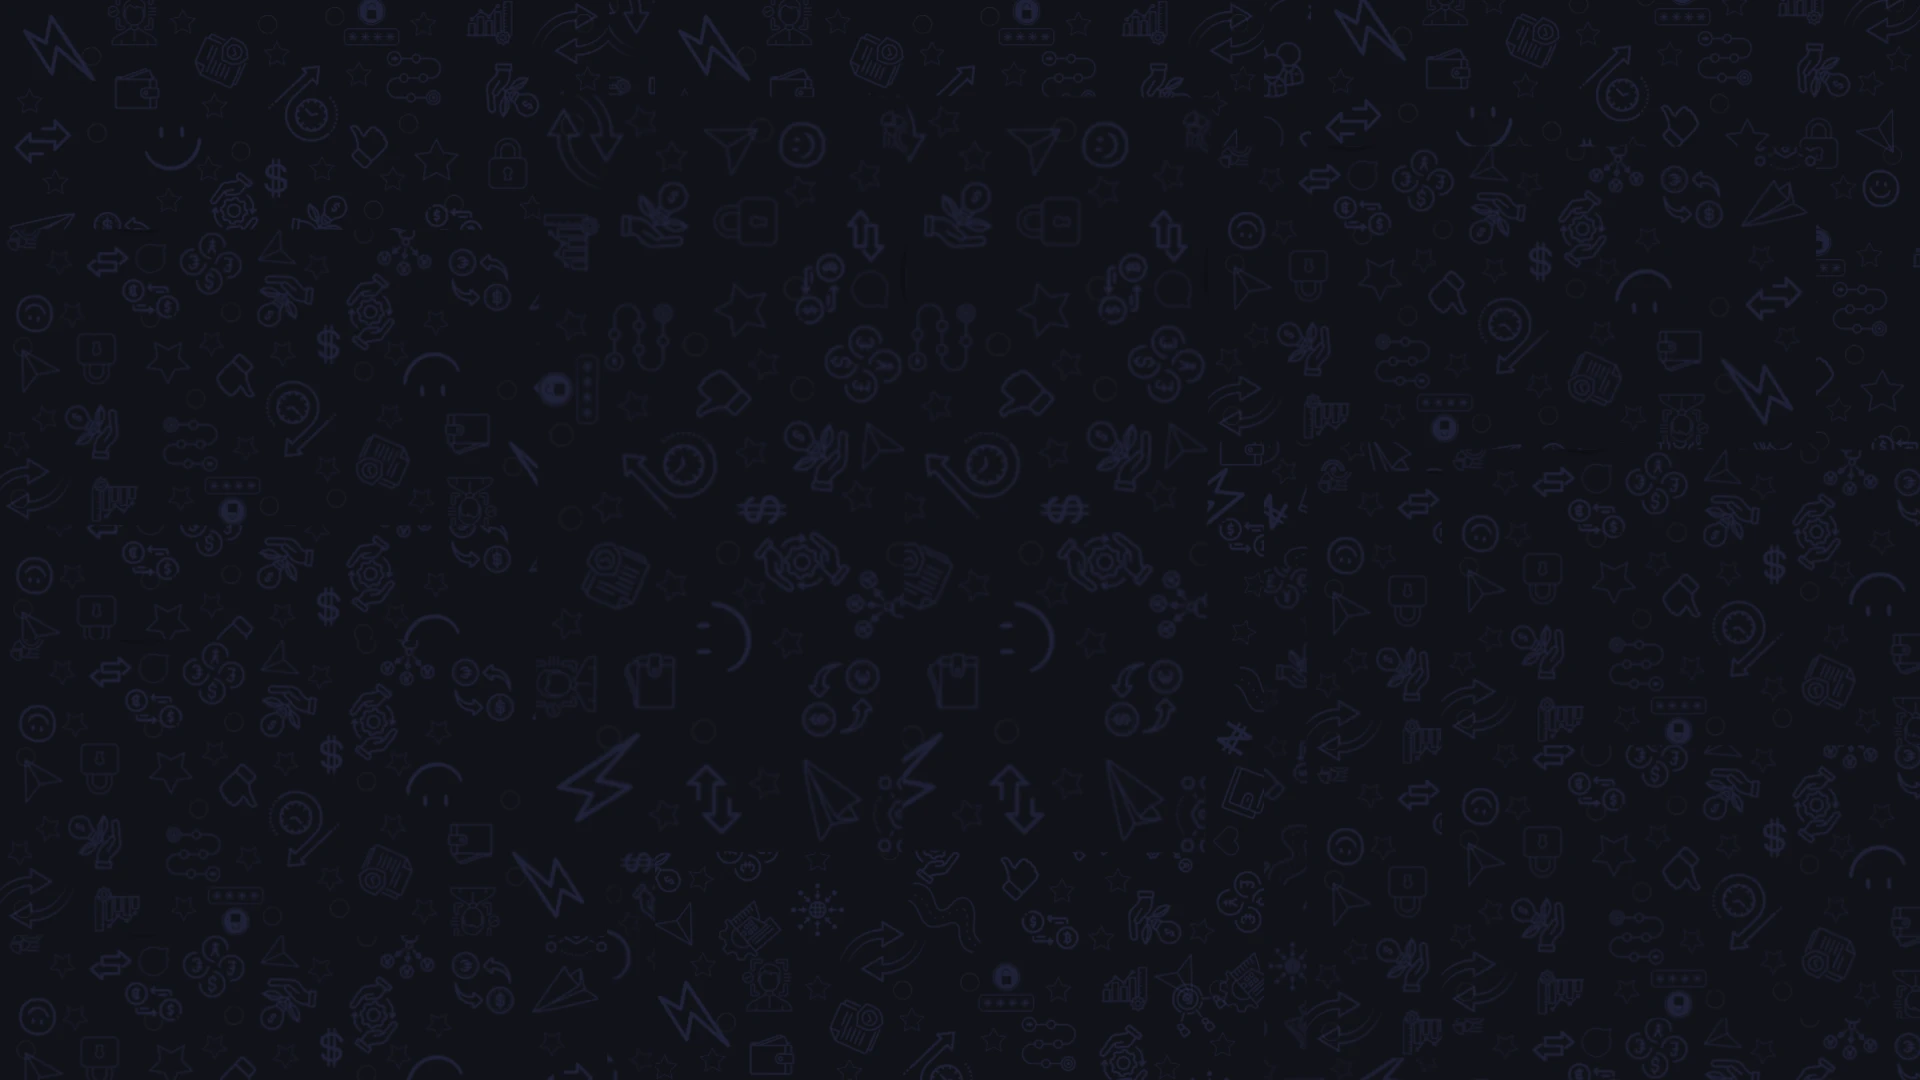
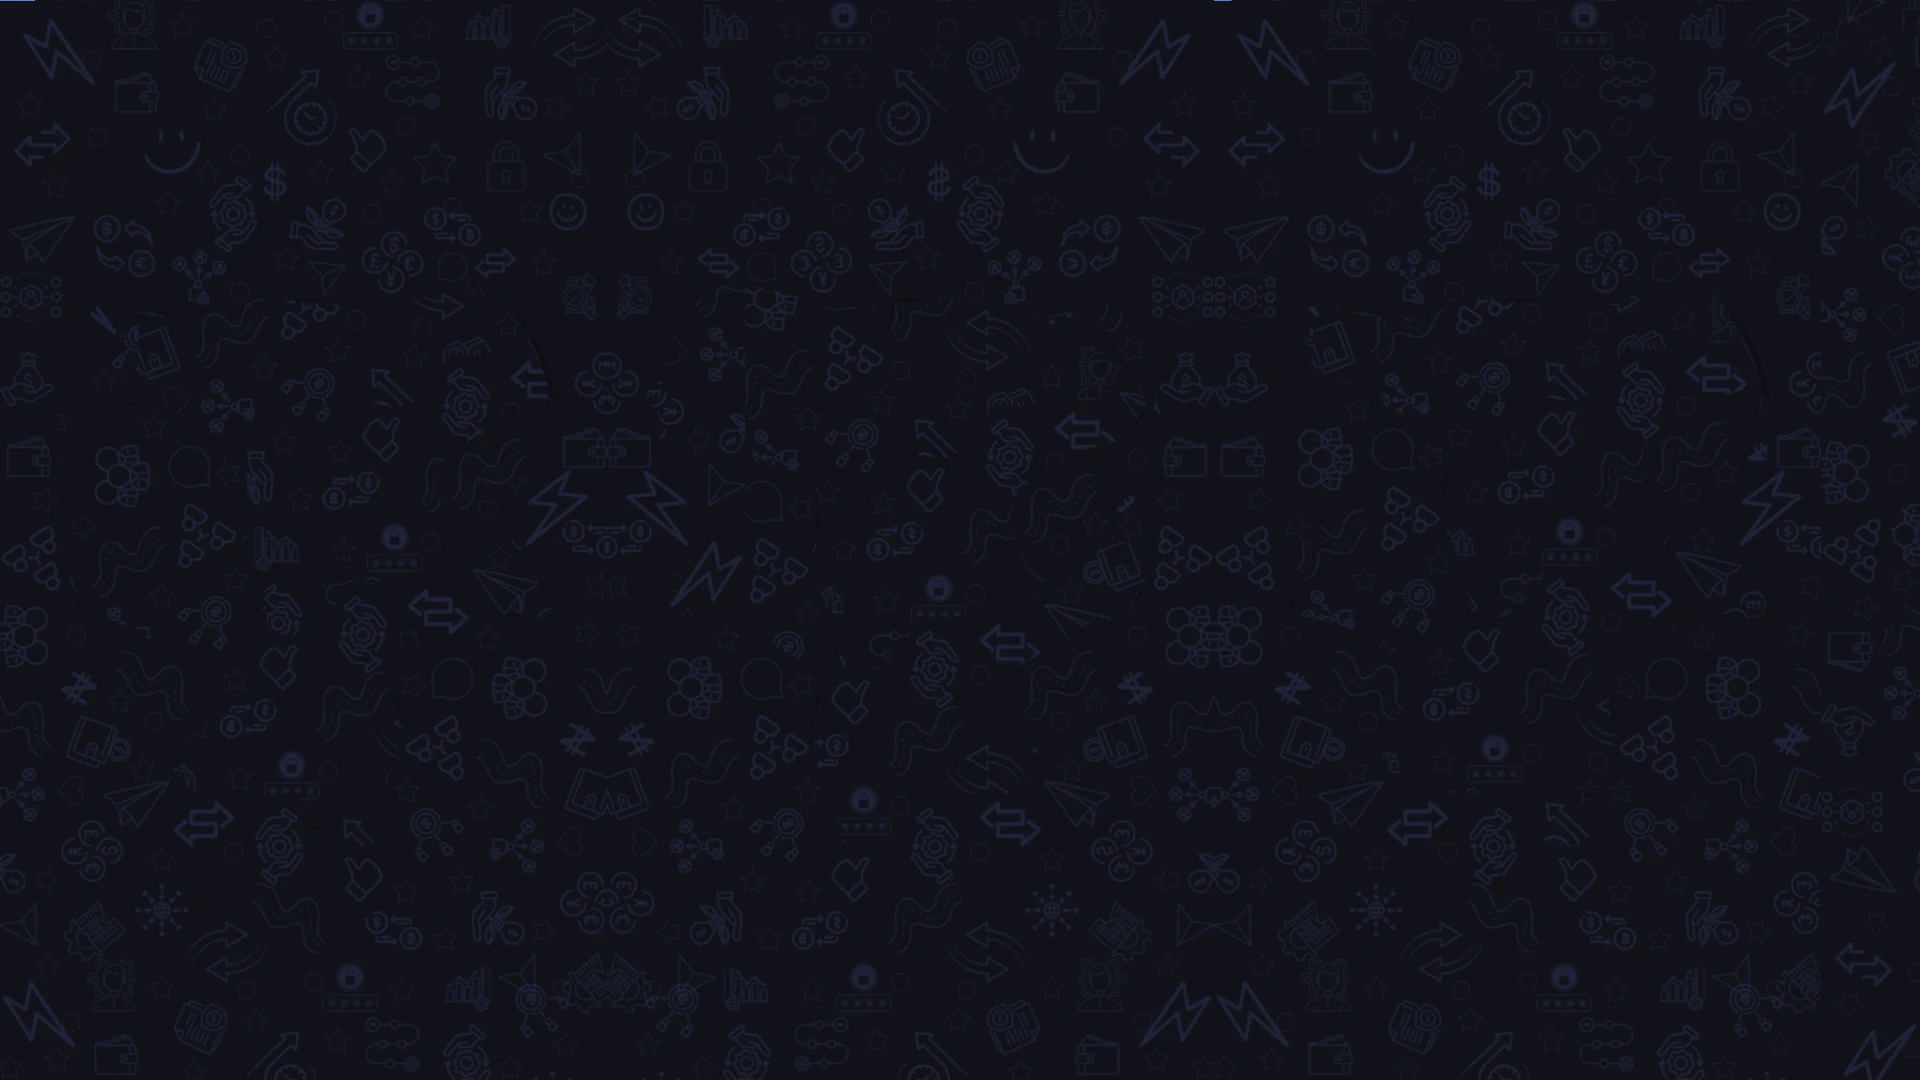
Something just got updated!

diff --git a/components/views/ramp-interface copy.tsx b/components/views/ramp-interface copy.tsx
@@ -346,7 +346,7 @@ export function RampInterface({
           {/* Mode Switcher */}
           <div className="relative w-full">
             <div className="flex justify-start">
-              <div className="flex bg-muted/50 border border-border rounded-xl overflow-hidden backdrop-blur-sm relative w-[200px]">
+              <div className="flex bg-muted/50 border border-primary/20 rounded-xl overflow-hidden backdrop-blur-sm relative w-[200px]">
                 {/* Animated highlight background */}
                 <div
                   className={`absolute top-0 left-0 h-full w-1/2 rounded-xl bg-gradient-to-r from-primary/15 to-primary/10 transition-transform duration-300 ease-in-out ${rampMode === "offramp" ? "translate-x-full" : "translate-x-0"
@@ -389,11 +389,11 @@ export function RampInterface({
                       : "Convert crypto to NGN and withdraw to your chosen account"}
                 </CardDescription> */}
         </CardHeader>
-        <CardContent className="">
-          <div className="space-y-3">
+        <CardContent className="p-0">
+          <div className="px-4 space-y-4">
             {rampMode === "onramp" ? (
               <>
-                <div className="bg-muted/50 rounded-xl p-2 border border-border">
+                <div className="bg-muted/50 rounded-xl p-2 border border-primary/20">
                   <div className="text-xs md:text-sm font-medium text-muted-foreground mb-1">You pay</div>
                   <div className="flex items-center justify-between gap-1.5">
                     <input
@@ -502,7 +502,7 @@ export function RampInterface({
             {/* Exchange & Fee */}
             <div className="flex items-center justify-between px-3 py-2">
               {rateLoading && !exchangeRate ? (
-                <div className="text-sm text-muted-foreground">Loading rate...</div>
+                <div className="text-xs text-muted-foreground">Loading rate...</div>
               ) : (
                 <div className="flex items-center gap-2 text-xs text-muted-foreground">
                   <span>
@@ -511,7 +511,7 @@ export function RampInterface({
                   <Button
                     variant="ghost"
                     size="sm"
-                    className="h-3 w-3 p-0 hover:bg-muted/60 rounded-full"
+                    className="h-5 w-5 p-0 hover:bg-muted/60 rounded-full"
                     onClick={refreshRate}
                     aria-label="Refresh exchange rate"
                   >
@@ -663,10 +663,37 @@ export function RampInterface({
             )}
 
 
+            {/* Add this after the payment/transfer method sections and before the main button */}
+
+            {/* {fromAmount && Number(fromAmount) > 0 && (
+              <div className="bg-muted rounded-xl p-4 border border-border space-y-2">
+                <div className="flex justify-between text-sm">
+                  <span className="text-muted-foreground">Amount</span>
+                  {rampMode === 'onramp'
+                    ? `₦${Number(fromAmount).toLocaleString()}`
+                    : `${Number(fromAmount).toLocaleString()} ${tokenSymbol}`
+                  }
+                </div>
+                <div className="flex justify-between text-sm">
+                  <span className="text-muted-foreground">Platform fee</span>
+                  <span>₦{calculateFee(Number(fromAmount))}</span>
+                </div>
+                <div className="flex justify-between text-sm font-medium pt-2 border-t">
+                  <span>You'll {rampMode === 'onramp' ? 'receive' : 'get'}</span>
+                  <span>
+                    {rampMode === 'onramp'
+                      ? `${computedReceiving.toFixed(4)} ${tokenSymbol}`
+                      : `₦${computedReceiving.toLocaleString()}`
+                    }
+                  </span>
+                </div>
+              </div>
+            )} */}
+
             {/* Main action button */}
             {rampMode === "offramp" && effectiveTransferMethod === "connect_wallet" && fromAmount && Number(fromAmount) > 0 && !effectiveIsWalletConnected ? (
               <Button
-                className="w-full rounded-xl text-base font-semibold mt-0 bg-gradient-to-r from-primary to-primary/80 hover:from-primary/90 hover:to-primary/70 shadow-lg shadow-primary/20"
+                className="w-full h-12 rounded-xl text-base font-semibold mt-3 bg-gradient-to-r from-primary to-primary/80 hover:from-primary/90 hover:to-primary/70 shadow-lg shadow-primary/20"
                 size="lg"
                 onClick={() => {
                   if (onConnectWallet) onConnectWallet()
@@ -683,7 +710,7 @@ export function RampInterface({
 
               return (
                 <Button
-                  className="w-full rounded-xl text-base font-semibold mt-0 bg-gradient-to-r from-primary to-primary/80 hover:from-primary/90 hover:to-primary/70 shadow-lg shadow-primary/20"
+                  className="w-full h-12 rounded-xl text-base font-semibold mt-3 bg-gradient-to-r from-primary to-primary/80 hover:from-primary/90 hover:to-primary/70 shadow-lg shadow-primary/20"
                   size="lg"
                   disabled={
                     !fromAmount ||

diff --git a/components/theme-toggle.tsx b/components/theme-toggle.tsx
@@ -1,50 +1,57 @@
-"use client"
+"use client";
 
-import { Moon, Sun, Monitor } from "lucide-react"
-import { useTheme } from "next-themes"
-import { Button } from "@/components/ui/button"
+import { Moon, Sun, Monitor } from "lucide-react";
+import { useTheme } from "next-themes";
+import { Button } from "@/components/ui/button";
 import {
   DropdownMenu,
   DropdownMenuContent,
   DropdownMenuItem,
   DropdownMenuTrigger,
-} from "@/components/ui/dropdown-menu"
+} from "@/components/ui/dropdown-menu";
 
 export function ThemeToggle() {
-  const { setTheme, theme } = useTheme()
+  const { setTheme, theme } = useTheme();
 
   return (
     <DropdownMenu>
       <DropdownMenuTrigger asChild>
         <Button
-          variant="ghost"
+          variant="soft_gradient"
           size="sm"
-          className="relative flex items-center justify-center w-8 h-8 rounded-2xl border border-border bg-muted/50 backdrop-blur-sm hover:bg-card/50 transition-all duration-300 hover:shadow-[0_0_8px_rgba(var(--primary-rgb),0.25)] group"
+          className="relative flex items-center justify-center w-8 h-8 rounded-full 
+                     border border-primary/30 backdrop-blur-md 
+                     hover:border-primary/60 hover:shadow-[0_0_10px_rgba(var(--primary-rgb),0.35)]
+                     transition-all duration-300 group"
           aria-label="Toggle theme"
         >
-          {/* Animated icons */}
+          {/* Sun icon (Light mode) */}
           <Sun
-            className="h-[1.3rem] w-[1.3rem] rotate-0 scale-100 transition-all duration-500 ease-out dark:-rotate-90 dark:scale-0 text-foreground/90"
-          />
-          <Moon
-            className="absolute h-[1.3rem] w-[1.3rem] rotate-90 scale-0 transition-all duration-500 ease-out dark:rotate-0 dark:scale-100 text-foreground/90"
+            className="absolute h-[1.5rem] w-[1.5rem] text-primary 
+                       rotate-0 scale-100 transition-all duration-500 ease-out 
+                       dark:-rotate-90 dark:scale-0 drop-shadow-[0_0_8px_rgba(255,255,255,0.7)] z-10"
           />
 
-          {/* Glow ring on hover */}
-          <div className="absolute inset-0 rounded-2xl opacity-0 group-hover:opacity-100 transition-all duration-500 pointer-events-none shadow-[0_0_12px_rgba(var(--primary-rgb),0.25)]" />
+          {/* Moon icon (Dark mode) */}
+          <Moon
+            className="absolute h-[1.5rem] w-[1.5rem] text-primary
+                       rotate-90 scale-0 transition-all duration-500 ease-out 
+                       dark:rotate-0 dark:scale-100 drop-shadow-[0_0_8px_rgba(255,255,255,0.7)] z-10"
+          />
         </Button>
       </DropdownMenuTrigger>
 
       <DropdownMenuContent
         align="end"
         sideOffset={8}
-        className="rounded-xl border border-border bg-card/70 backdrop-blur-md shadow-lg"
+        className="rounded-xl border border-border bg-card/80 backdrop-blur-md shadow-lg"
       >
         <DropdownMenuItem
           onClick={() => setTheme("light")}
-          className={`flex items-center gap-2 py-2 px-3 rounded-lg transition-all duration-200 ${
-            theme === "light" ? "bg-primary/10 text-primary font-semibold" : ""
-          }`}
+          className={`flex items-center gap-2 py-2 px-3 rounded-lg transition-all duration-200 ${theme === "light"
+            ? "bg-primary/20 text-primary font-semibold"
+            : "hover:bg-primary/10"
+            }`}
         >
           <Sun className="h-5 w-5" />
           <span>Light</span>
@@ -52,9 +59,10 @@ export function ThemeToggle() {
 
         <DropdownMenuItem
           onClick={() => setTheme("dark")}
-          className={`flex items-center gap-2 py-2 px-3 rounded-lg transition-all duration-200 ${
-            theme === "dark" ? "bg-primary/10 text-primary font-semibold" : ""
-          }`}
+          className={`flex items-center gap-2 py-2 px-3 rounded-lg transition-all duration-200 ${theme === "dark"
+            ? "bg-primary/20 text-primary font-semibold"
+            : "hover:bg-primary/10"
+            }`}
         >
           <Moon className="h-5 w-5" />
           <span>Dark</span>
@@ -62,14 +70,15 @@ export function ThemeToggle() {
 
         <DropdownMenuItem
           onClick={() => setTheme("system")}
-          className={`flex items-center gap-2 py-2 px-3 rounded-lg transition-all duration-200 ${
-            theme === "system" ? "bg-primary/10 text-primary font-semibold" : ""
-          }`}
+          className={`flex items-center gap-2 py-2 px-3 rounded-lg transition-all duration-200 ${theme === "system"
+            ? "bg-primary/20 text-primary font-semibold"
+            : "hover:bg-primary/10"
+            }`}
         >
           <Monitor className="h-5 w-5" />
           <span>System</span>
         </DropdownMenuItem>
       </DropdownMenuContent>
     </DropdownMenu>
-  )
+  );
 }

diff --git a/components/ui/card.tsx b/components/ui/card.tsx
@@ -6,7 +6,7 @@ function Card({ className, ...props }: React.ComponentProps<"div">) {
   return (
     <div
       data-slot="card"
-      className={cn("bg-card text-card-foreground flex flex-col gap-6 rounded-xl border py-6", className)}
+      className={cn("bg-card text-card-foreground flex flex-col gap-3 rounded-xl border py-3", className)}
       {...props}
     />
   )
@@ -17,7 +17,7 @@ function CardHeader({ className, ...props }: React.ComponentProps<"div">) {
     <div
       data-slot="card-header"
       className={cn(
-        "@container/card-header grid auto-rows-min grid-rows-[auto_auto] items-start gap-1.5 px-4 has-data-[slot=card-action]:grid-cols-[1fr_auto] [.border-b]:pb-6",
+        "@container/card-header grid auto-rows-min grid-rows-[auto_auto] items-start gap-1.5 px-3 has-data-[slot=card-action]:grid-cols-[1fr_auto] [.border-b]:pb-3",
         className,
       )}
       {...props}
@@ -44,11 +44,11 @@ function CardAction({ className, ...props }: React.ComponentProps<"div">) {
 }
 
 function CardContent({ className, ...props }: React.ComponentProps<"div">) {
-  return <div data-slot="card-content" className={cn("px-6", className)} {...props} />
+  return <div data-slot="card-content" className={cn("px-3", className)} {...props} />
 }
 
 function CardFooter({ className, ...props }: React.ComponentProps<"div">) {
-  return <div data-slot="card-footer" className={cn("flex items-center px-6 [.border-t]:pt-6", className)} {...props} />
+  return <div data-slot="card-footer" className={cn("flex items-center px-3 [.border-t]:pt-3", className)} {...props} />
 }
 
 export { Card, CardHeader, CardFooter, CardTitle, CardAction, CardDescription, CardContent }

diff --git a/components/ui/button.tsx b/components/ui/button.tsx
@@ -17,9 +17,9 @@ const buttonVariants = cva(
         secondary:
           "bg-secondary text-secondary-foreground hover:bg-secondary/80 shadow-[0_2px_8px_rgba(var(--secondary-rgb),0.2)]",
         ghost:
-          "hover:bg-accent/30 hover:text-accent-foreground dark:hover:bg-accent/40 transition-all duration-200",
+          "hover:bg-accent/30 hover:text-accent-foreground dark:hover:bg-accent/40 shadow-[0_0_10px_rgba(var(--primary-rgb),0.15)] hover:shadow-[0_0_14px_rgba(var(--primary-rgb),0.25)] transition-all duration-200",
         soft_gradient:
-          "bg-gradient-to-r from-primary/15 to-primary/10 border border-border text-foreground/90 dark:text-foreground font-semibold hover:from-primary/25 hover:to-primary/15 hover:border-primary/50 shadow-[0_0_10px_rgba(var(--primary-rgb),0.15)] hover:shadow-[0_0_14px_rgba(var(--primary-rgb),0.25)]",
+          "bg-gradient-to-r from-primary/15 to-primary/10 border border-primary/20 text-foreground/90 dark:text-foreground font-semibold hover:from-primary/25 hover:to-primary/15 hover:border-primary/50 shadow-[0_0_10px_rgba(var(--primary-rgb),0.15)] hover:shadow-[0_0_14px_rgba(var(--primary-rgb),0.25)]",
         link:
           "text-primary underline-offset-4 hover:underline",
       },

diff --git a/components/app_layout/app-header.tsx b/components/app_layout/app-header.tsx
@@ -102,7 +102,7 @@ export function AppHeader({
 
 
             <button
-              className="md:hidden flex items-center justify-center h-9 w-9 rounded-lg text-muted-foreground dark:text-foreground transition hover:text-primary focus:outline-none focus:ring-2 focus:ring-primary"
+              className="md:hidden flex items-center justify-center h-9 w-9 rounded-lg text-muted-foreground dark:text-foreground transition hover:text-primary focus:outline-none"
               aria-label="Toggle navigation"
               aria-expanded={mobileOpen}
               onClick={() => setMobileOpen((prev) => !prev)}

diff --git a/app/globals.css b/app/globals.css
@@ -184,7 +184,7 @@
   /* 🌑 DARK MODE (desktop) */
   @media (min-width: 768px) {
     .dark body::before {
-      /* background-image: url("/img/IMG_3235-desktop.webp");  */
+      background-image: url("/img/IMG_3235-desktop.webp");
       /* dark desktop landscape */
     }
   }
